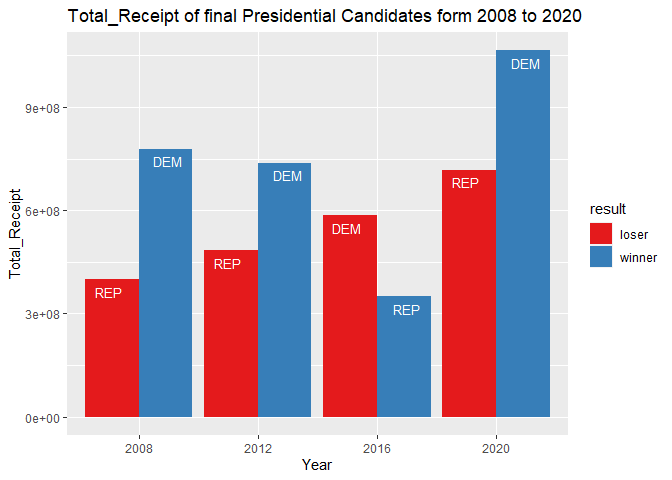
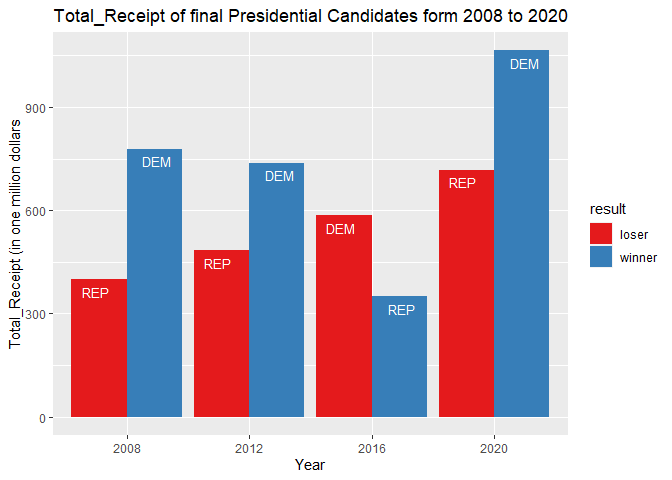
add to existing files

diff --git a/hw2_HH_updated.md b/hw2_HH_updated.md
@@ -132,13 +132,15 @@ df5$result = ifelse (df5$Coverage_End_Date == 2016 & df5$Cand_Party_Affiliation 
 df5$result = ifelse (df5$Coverage_End_Date == 2020 & df5$Cand_Party_Affiliation == "REP", "loser", df5$result)
 df5$result = ifelse (df5$Coverage_End_Date == 2020 & df5$Cand_Party_Affiliation == "DEM", "winner", df5$result)
 
+df5$Total_Receipt = df5$Total_Receipt/ 1000000
+
 ## plot grouped bar based on result
 ggplot(df5, aes(factor(Coverage_End_Date), Total_Receipt, fill = result)) + 
   geom_bar(stat="identity", position = "dodge") + 
   geom_text(aes(label=Cand_Party_Affiliation), vjust=1.6, color="white", position=position_dodge(width=1), size=3.5)+
   scale_fill_brewer(palette = "Set1") + 
   ggtitle("Total_Receipt of final Presidential Candidates form 2008 to 2020") +
-  xlab("Year") + ylab("Total_Receipt")
+  xlab("Year") + ylab("Total_Receipt (in one million dollars")
 ```
 
 ![](hw2_HH_updated_files/figure-gfm/unnamed-chunk-4-1.png)<!-- -->
@@ -171,12 +173,14 @@ df_donate1 = df_donate1[df_donate1$Coverage_End_Date > 2007,]
 # drop the Others Parties, it's because the other Parties are just a very small part compare to DEM and REP 
 df_donate1 = df_donate1[df_donate1$Cand_Party_Affiliation != "OTHERS",]
 
+df_donate1$Other_Disbursements = df_donate1$Other_Disbursements/ 1000000
+
 ## Plot for donations from Parties
 ggplot(df_donate1, aes(factor(Coverage_End_Date), Other_Disbursements, fill = Cand_Party_Affiliation)) + 
   geom_bar(stat="identity", position = "dodge") + 
   scale_fill_brewer(palette = "Set1") + 
   ggtitle("Donations and contributions from DEM and REP Parties from 2008 to 2020") +
-  xlab("Year") + ylab("Other_disburshments")
+  xlab("Year") + ylab("Other_disburshments in million dollars")
 ```
 
 ![](hw2_HH_updated_files/figure-gfm/unnamed-chunk-5-1.png)<!-- -->
@@ -249,11 +253,13 @@ df_dem1 <- aggregate(select(df_dem1, "Individual_Unitemized_Contribution", "Indi
 # change dataframe to melt
 df_dem_Melted <- melt(df_dem1, "Coverage_End_Date")
 
+df_dem_Melted$value = df_dem_Melted$value/ 1000000
+
 # Plot
 ggplot(df_dem_Melted, aes(factor(Coverage_End_Date), value, fill = variable)) + 
   geom_bar(stat="identity", position = "dodge") + 
   ggtitle("Two kinds of Individual contribution of DEM within 2020") +
-  xlab("Year") + ylab("Amount")
+  xlab("Year") + ylab("Amount in one million dollars")
 ```
 
 ![](hw2_HH_updated_files/figure-gfm/unnamed-chunk-7-1.png)<!-- -->
